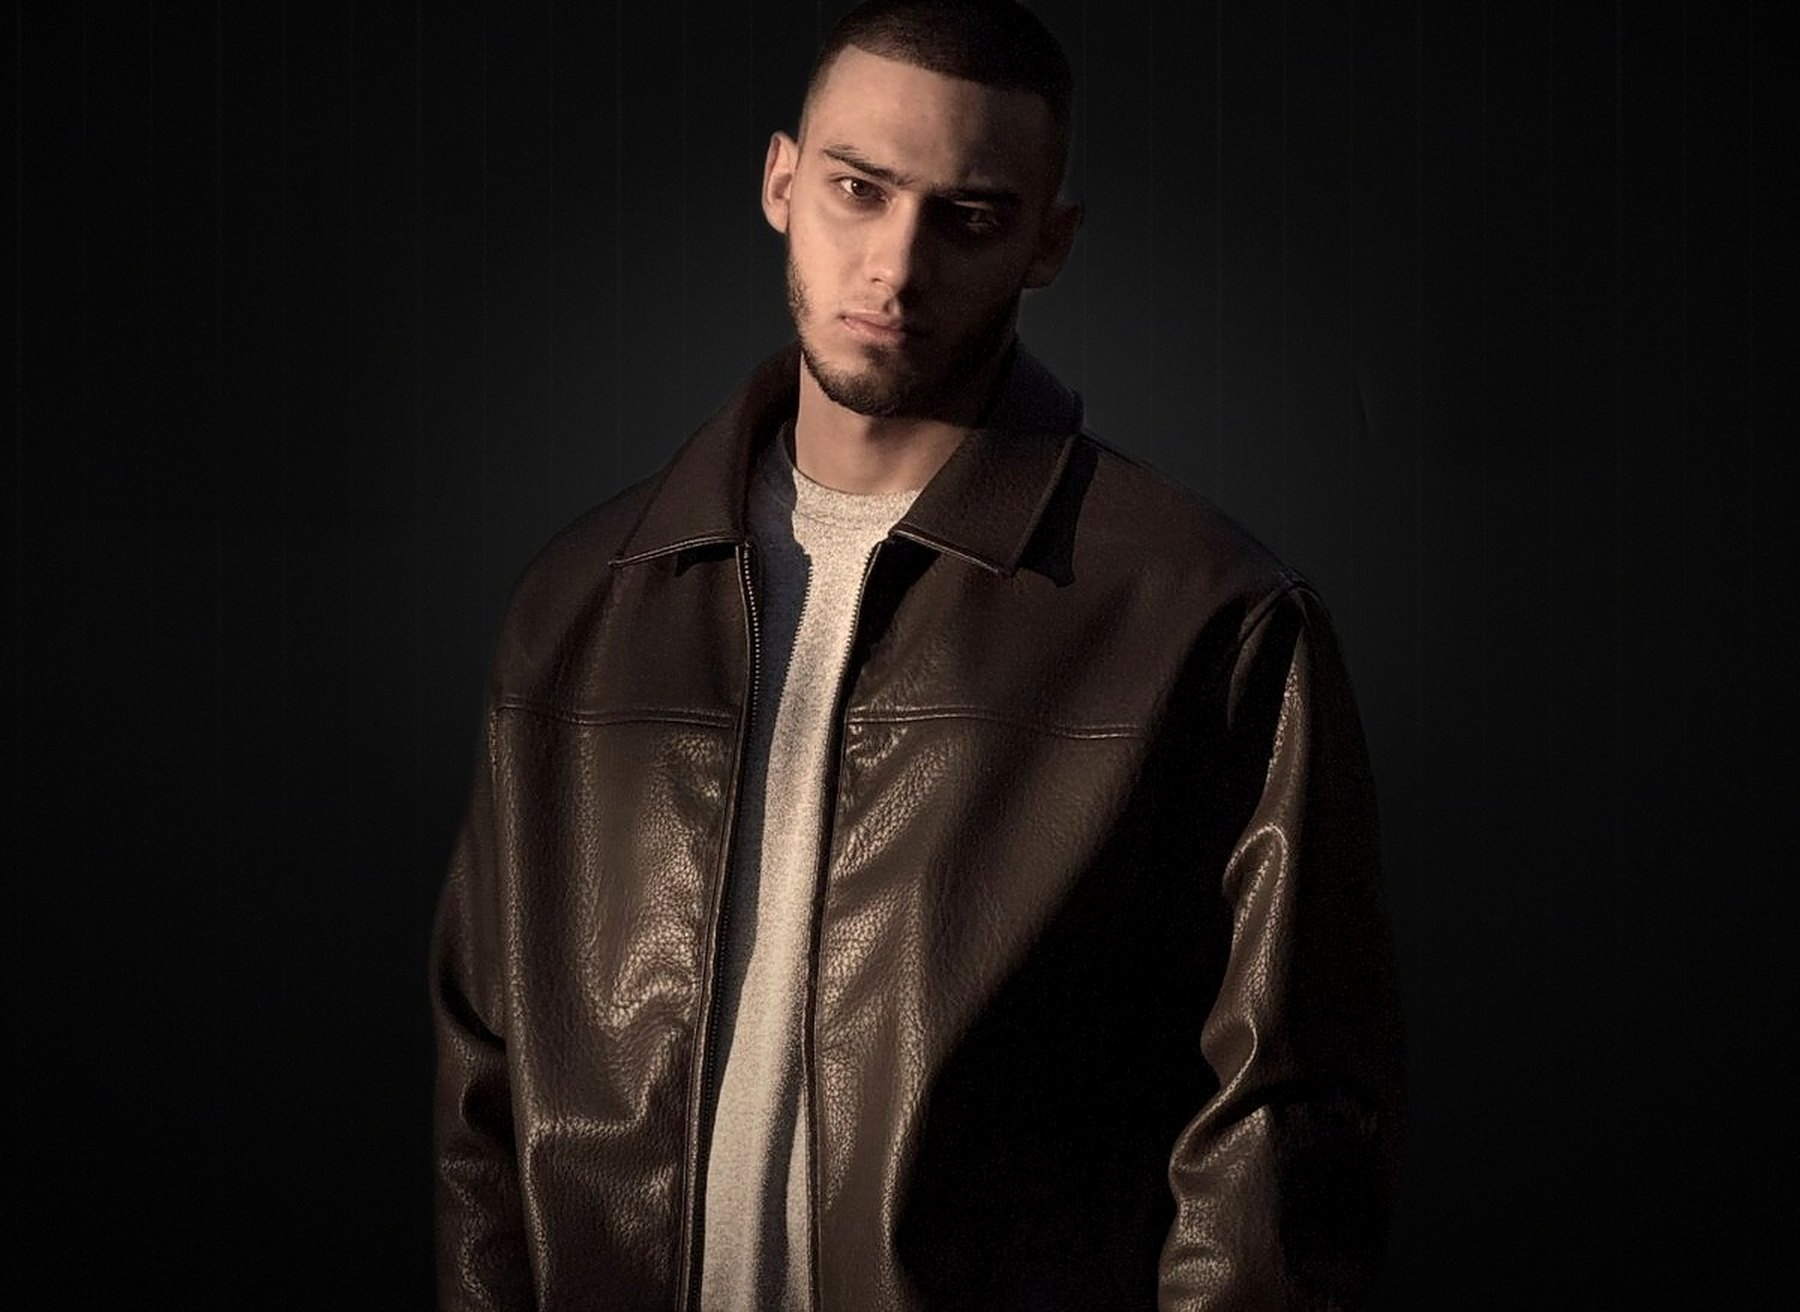
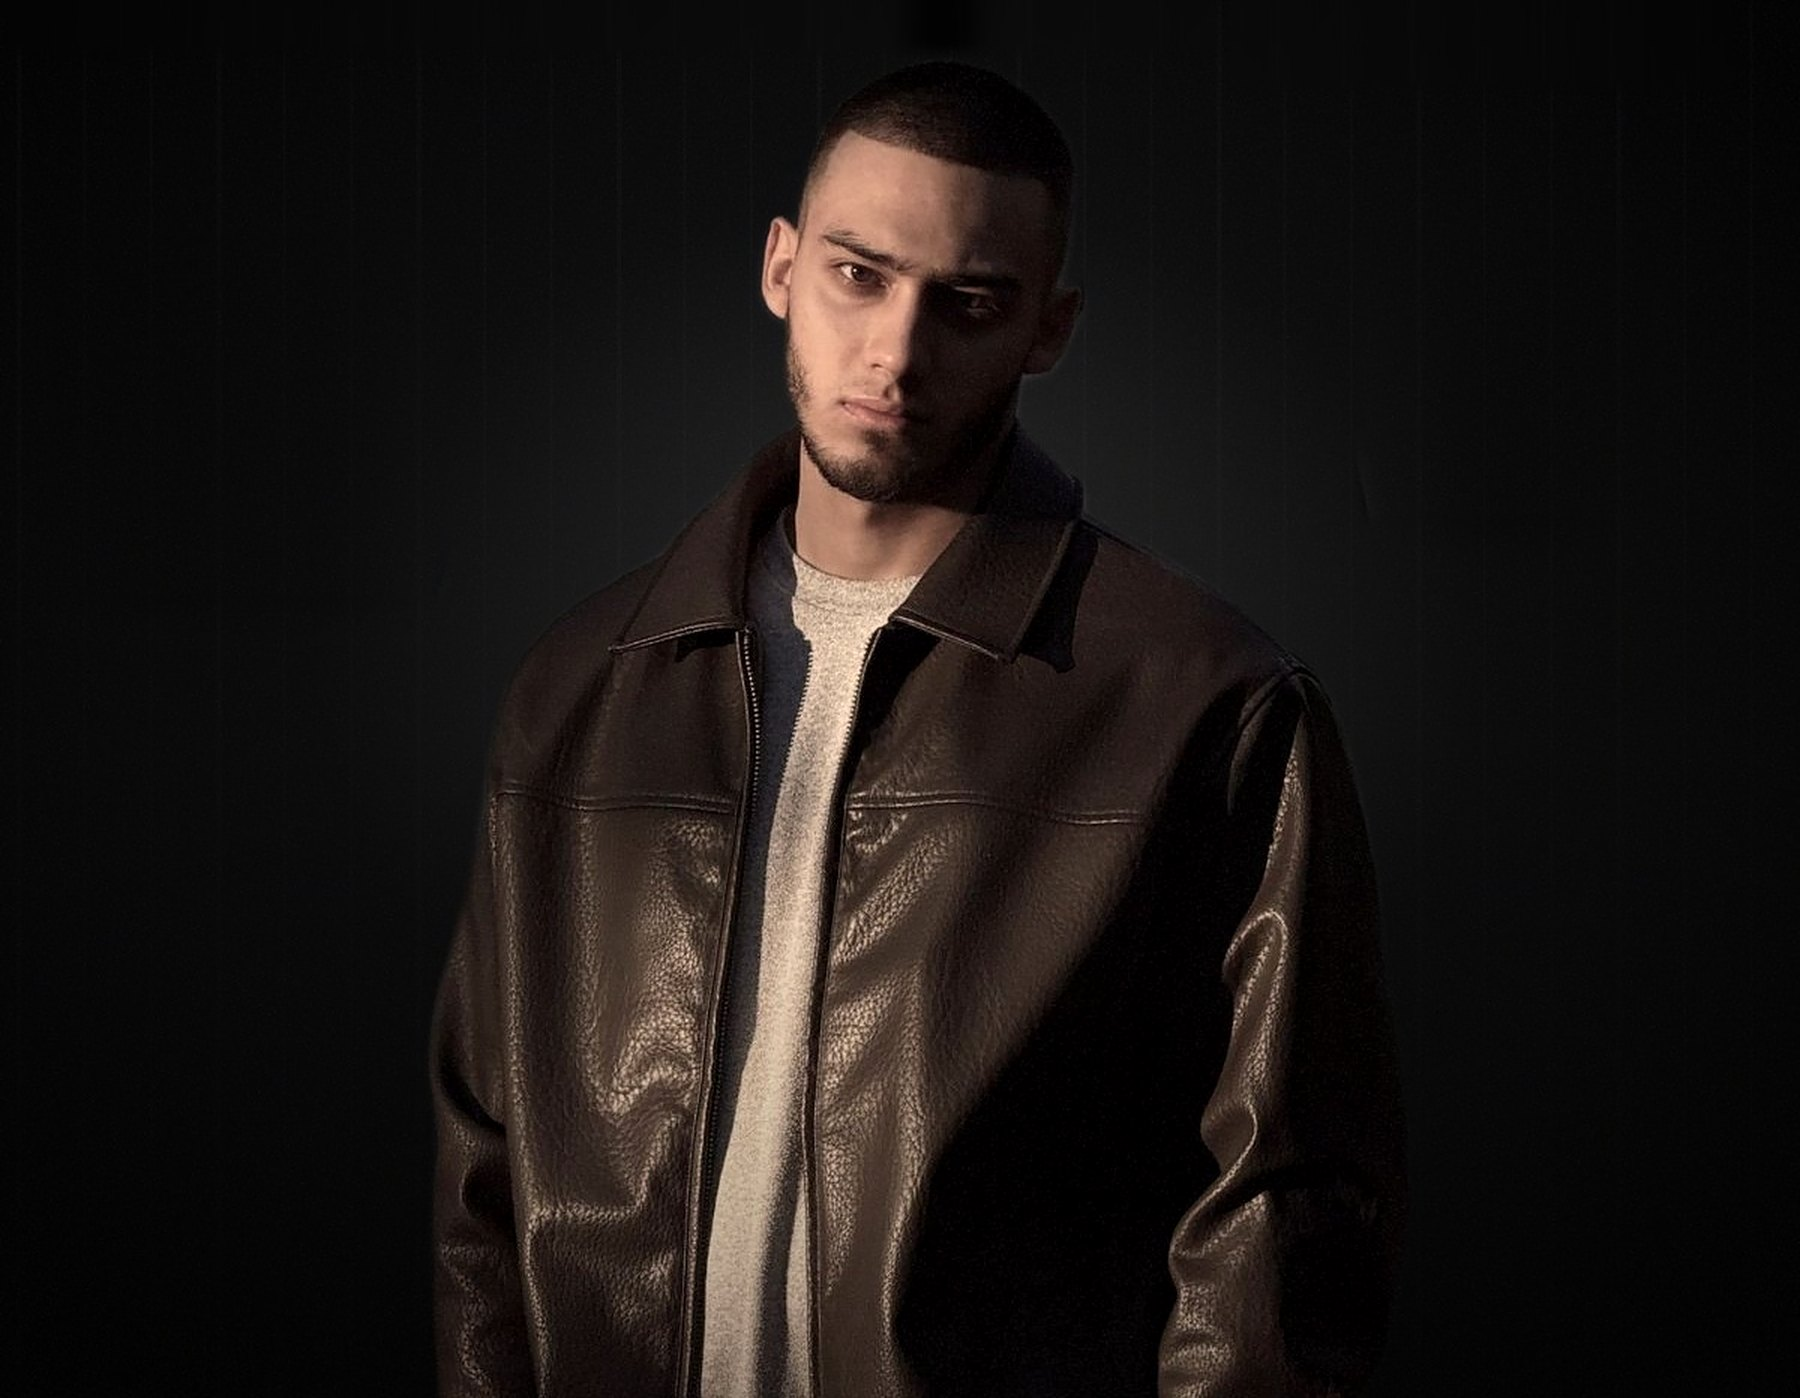
Фото «Обо мне»: голова целиком (кадр выше, фото прижато к верху)
Claude-Session: https://claude.ai/code/session_01E48UHfjzyhMgEohK9AqWTv

diff --git a/index.html b/index.html
@@ -14,7 +14,7 @@
   <meta name="theme-color" content="#050505">
   <link rel="icon" href="brand/favicon.svg" type="image/svg+xml">
   <link rel="preload" href="fonts/unbounded-latin.woff2" as="font" type="font/woff2" crossorigin>
-  <link rel="stylesheet" href="/style.css?v=7a3a8c64">
+  <link rel="stylesheet" href="/style.css?v=4fb322a0">
   <script src="/consent.js?v=8b8f7968" defer></script>
   <script type="application/ld+json">{"@context":"https://schema.org","@type":"ProfessionalService","name":"DANIL66","alternateName":"Данил — видео, монтаж, дизайн, SMM","url":"https://portfolio-danil.ru/","image":"https://portfolio-danil.ru/brand/66-smoke-on-black.png","description":"Видеосъёмка, монтаж Reels, дизайн и SMM для бизнеса в Уфе.","areaServed":{"@type":"City","name":"Уфа"},"address":{"@type":"PostalAddress","addressLocality":"Уфа","addressCountry":"RU"},"priceRange":"от 1 200 ₽","sameAs":["https://t.me/noirout","https://vk.ru/prostout"],"knowsAbout":["Видеосъёмка","Монтаж видео","Reels","Моушн-дизайн","Графический дизайн","SMM"]}</script>
 </head>

diff --git a/design/index.html b/design/index.html
@@ -14,7 +14,7 @@
   <meta name="theme-color" content="#050505">
   <link rel="icon" href="/brand/favicon.svg" type="image/svg+xml">
   <link rel="preload" href="/fonts/unbounded-latin.woff2" as="font" type="font/woff2" crossorigin>
-  <link rel="stylesheet" href="/style.css?v=7a3a8c64">
+  <link rel="stylesheet" href="/style.css?v=4fb322a0">
   <script>document.documentElement.classList.add('js')</script>
   <script src="/consent.js?v=8b8f7968" defer></script>
 </head>

diff --git a/privacy/index.html b/privacy/index.html
@@ -14,7 +14,7 @@
   <meta name="theme-color" content="#050505">
   <link rel="icon" href="/brand/favicon.svg" type="image/svg+xml">
   <link rel="preload" href="/fonts/unbounded-latin.woff2" as="font" type="font/woff2" crossorigin>
-  <link rel="stylesheet" href="/style.css?v=7a3a8c64">
+  <link rel="stylesheet" href="/style.css?v=4fb322a0">
   <script>document.documentElement.classList.add('js')</script>
   <script src="/consent.js?v=8b8f7968" defer></script>
 </head>

diff --git a/reels/index.html b/reels/index.html
@@ -14,7 +14,7 @@
   <meta name="theme-color" content="#050505">
   <link rel="icon" href="/brand/favicon.svg" type="image/svg+xml">
   <link rel="preload" href="/fonts/unbounded-latin.woff2" as="font" type="font/woff2" crossorigin>
-  <link rel="stylesheet" href="/style.css?v=7a3a8c64">
+  <link rel="stylesheet" href="/style.css?v=4fb322a0">
   <script>document.documentElement.classList.add('js')</script>
   <script src="/consent.js?v=8b8f7968" defer></script>
 </head>

diff --git a/video/index.html b/video/index.html
@@ -14,7 +14,7 @@
   <meta name="theme-color" content="#050505">
   <link rel="icon" href="/brand/favicon.svg" type="image/svg+xml">
   <link rel="preload" href="/fonts/unbounded-latin.woff2" as="font" type="font/woff2" crossorigin>
-  <link rel="stylesheet" href="/style.css?v=7a3a8c64">
+  <link rel="stylesheet" href="/style.css?v=4fb322a0">
   <script>document.documentElement.classList.add('js')</script>
   <script src="/consent.js?v=8b8f7968" defer></script>
 </head>

diff --git a/style.css b/style.css
@@ -443,3 +443,6 @@ body.svc-on{overflow:hidden}
   .about .photo img{object-position:52% 15%}
   .about .txt{margin-top:-70px;padding:0 20px 34px}
 }
+/* keep the whole head in frame: anchor the portrait to its top edge */
+.about .photo img{object-position:50% 0}
+@media (max-width:640px){.about .photo img{object-position:52% 0}}
